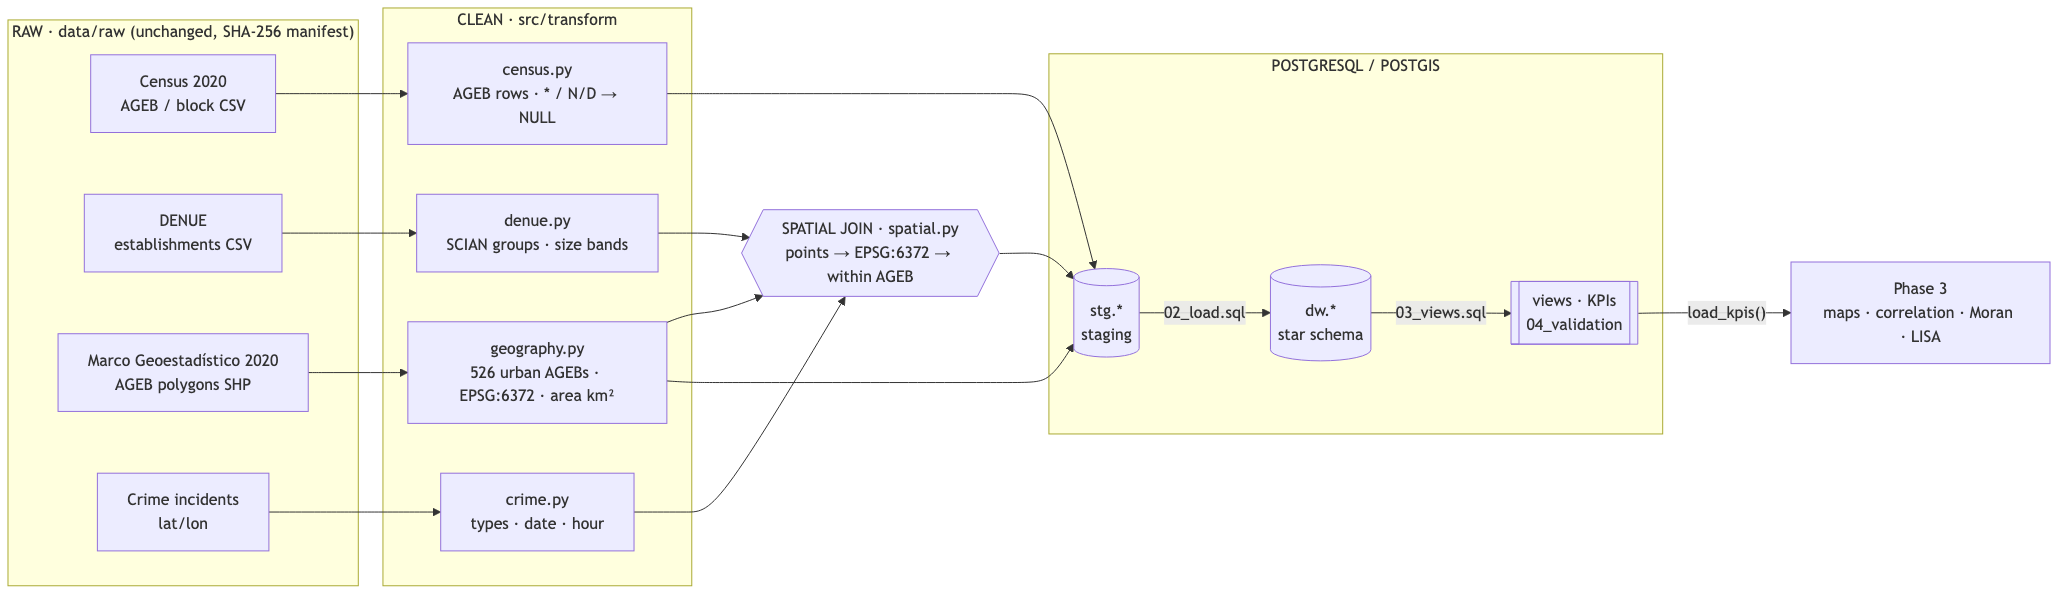
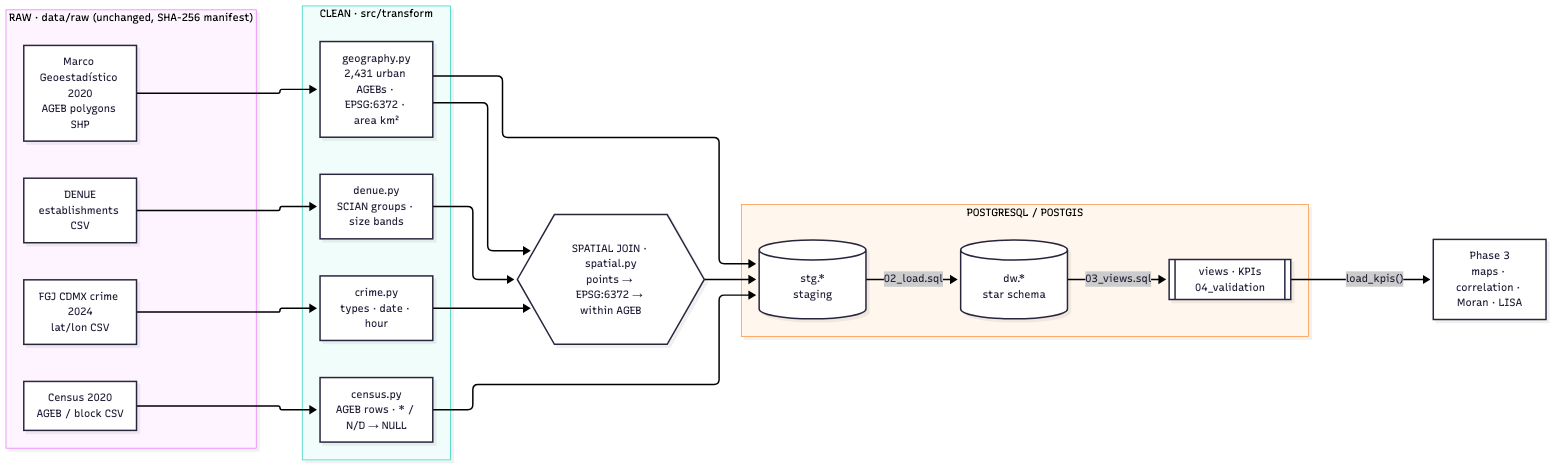
docs(dw): update README, diagrams and report section for CDMX

diff --git a/README.md b/README.md
@@ -1,10 +1,12 @@
-# Mérida Urban Intelligence — Geospatial Data Warehouse
+# Mexico City Urban Intelligence — Geospatial Data Warehouse
 
 > Business Intelligence · Unit 2 Project · Universidad Politécnica de Yucatán
 
-A reproducible geospatial Data Warehouse (PostgreSQL/PostGIS) that integrates demographic (INEGI Census 2020), economic (INEGI DENUE), geographic (INEGI Marco Geoestadístico 2020) and public-safety data for the municipality of Mérida, Yucatán, to calculate territorial KPIs and analyse spatial patterns at the **urban AGEB** level.
+A reproducible geospatial Data Warehouse (PostgreSQL/PostGIS) that integrates demographic (INEGI Census 2020), economic (INEGI DENUE), geographic (INEGI Marco Geoestadístico 2020) and public-safety (FGJ CDMX investigation files) data for Mexico City (CDMX, 16 alcaldías), to calculate territorial KPIs and analyse spatial patterns at the **urban AGEB** level.
 
-**Team:** Jose Pech · Julio de Aquino · Nora Horta · Lorena Pérez · Valeria Hernández
+**Team:** Jose Pech · Julio de Aquino · Nora Horta · Lorena Pérez · Valeria Hernández · Gustavo Fuentes
+
+> **Scope change (5 Oct 2026).** The project started with Mérida, Yucatán. The only public crime data for Mérida (SESNSP) is aggregated by municipality, and the instructor required real georeferenced incidents (no simulated data); with municipal crime data the spatial analysis would have to move to the state level. Following the instructor's suggestion we moved the study area to Mexico City, where the Attorney General's Office (FGJ) publishes geolocated investigation files. The Mérida assessment is kept as Phase 1 evidence (see §3 and §10). The repository name is unchanged.
 
 > 🚧 Sections marked _TODO (owner)_ are filled in as each phase is completed. Team workflow: [`CONTRIBUTING.md`](CONTRIBUTING.md) and [`docs/team/TEAM_PLAN.md`](docs/team/TEAM_PLAN.md).
 
@@ -14,7 +16,7 @@ A reproducible geospatial Data Warehouse (PostgreSQL/PostGIS) that integrates de
 
 The project makes it possible to:
 
-1. calculate demographic, economic and public-safety KPIs for every urban AGEB of Mérida;
+1. calculate demographic, economic and public-safety KPIs for every urban AGEB of Mexico City;
 2. compare areas within the city;
 3. test whether demographic, economic and public-safety patterns are spatially associated (correlation, Global/Local Moran's I, bivariate Moran's I).
 
@@ -23,9 +25,9 @@ The project makes it possible to:
 | Layer | Source | Original grain | Key variables | Owner |
 |---|---|---|---|---|
 | Demographic | INEGI Censo de Población y Vivienda 2020 — results by AGEB and urban block | Urban block / AGEB, with locality and municipality total rows | `POBTOT`, `POB0_14`, `POB15_64`, `POB65_MAS`, `P_12YMAS`, `PEA`, `VIVTOT`, ... | Julio |
-| Economic | INEGI DENUE (Yucatán) | One establishment (point, lat/lon) | `id`, `codigo_act` (SCIAN), `per_ocu`, `latitud`, `longitud`, `fecha_alta` | Nora |
-| Geographic | INEGI Marco Geoestadístico 2020 (`31a.shp`, urban AGEB) | One polygon per AGEB | `CVEGEO`, `CVE_LOC`, `CVE_AGEB`, geometry (EPSG:6372) | Lorena |
-| Public safety | _TODO (Valeria)_ | One incident (point) | lat/lon, crime type, date/time | Valeria |
+| Economic | INEGI DENUE (Ciudad de México) | One establishment (point, lat/lon) | `id`, `codigo_act` (SCIAN), `per_ocu`, `latitud`, `longitud`, `fecha_alta` | Nora |
+| Geographic | INEGI Marco Geoestadístico 2020 (`09a.shp`, urban AGEB) | One polygon per AGEB | `CVEGEO`, `CVE_LOC`, `CVE_AGEB`, geometry (EPSG:6372) | Lorena |
+| Public safety | FGJ CDMX — Carpetas de investigación 2024 (datos.cdmx.gob.mx, CC-BY-4.0; also served by hoyodecrimen.com) | One investigation file (point, lat/lon) | `delito`, `categoria_delito`, `fecha_hecho`, `hora_hecho`, `latitud`, `longitud` | Valeria |
 
 Exact URLs, file hashes and download dates: [`data/raw/manifest.json`](data/raw/manifest.json) (generated by the pipeline).
 
@@ -64,7 +66,7 @@ Source: [`docs/warehouse_model.mmd`](docs/warehouse_model.mmd) (Mermaid) · Data
 
 Every fact keeps one row per original record (AGEB, establishment, incident) with its point geometry, so all KPIs can be recomputed from the warehouse without returning to the raw files. Aggregation happens only in the views.
 
-**Validation** — [`sql/04_validation.sql`](sql/04_validation.sql) runs as the last pipeline step and aborts on failure: row counts `dw` = `stg`, 526 valid AGEBs in EPSG:6372 (259.86 km²), census population = 957,399, every point inside its assigned AGEB, SCIAN groups consistent, KPI view reconciles with the facts and every KPI is computable.
+**Validation** — [`sql/04_validation.sql`](sql/04_validation.sql) runs as the last pipeline step and aborts on failure: row counts `dw` = `stg`, 2,431 valid AGEBs in EPSG:6372 (792.15 km²), census population = 9,138,524, every point inside its assigned AGEB, SCIAN groups consistent, KPI view reconciles with the facts and every KPI is computable.
 
 ## 6. KPIs
 
@@ -87,11 +89,11 @@ Implemented in [`sql/03_views.sql`](sql/03_views.sql). `dw.v_kpi_ageb` has one r
 | Public safety | Incidents by Type and Time | view `dw.v_crime_by_type_time` | incidents by AGEB × type × month × weekday × time band |
 | Public safety | Crime relative to Business Activity | `crimes_per_100_businesses` | `100 × crime_total / businesses_total` |
 
-Ratios with a zero denominator are `NULL`. `low_population` flags the 32 AGEBs with fewer than 100 residents (6 with none); their per-capita rates are unstable (e.g. the historic centre has very few residents and thousands of businesses), so analyses exclude them by default. Supporting view: `dw.v_business_by_sector` (establishments per AGEB × sector).
+Ratios with a zero denominator are `NULL`. `low_population` flags the 55 AGEBs with fewer than 100 residents (17 with none); their per-capita rates are unstable (e.g. AGEBs in the historic centre or with large non-residential uses have few residents and many businesses), so analyses exclude them by default. Supporting view: `dw.v_business_by_sector` (establishments per AGEB × sector).
 
 ## 7. Spatial analysis
 
-_TODO (Julio, Nora, Lorena, Valeria): neighbourhood rule, correlation, Global Moran's I, LISA, bivariate Moran's I, findings._
+_TODO (Julio, Nora, Lorena, Valeria, Gustavo): neighbourhood rule, correlation, Global Moran's I, LISA, bivariate Moran's I, findings._
 
 ## 8. Reproducing the project
 
@@ -136,4 +138,4 @@ merida-urban-intelligence/
 
 ## 10. Assumptions, data-quality issues and cautions
 
-_TODO (all): temporal mismatch between sources (Census 2020, DENUE 2026, crime period), INEGI confidentiality suppression, points outside urban AGEBs, small-population AGEBs, MAUP, spatial association ≠ causation._
+_TODO (all): temporal mismatch between sources (Census 2020, DENUE 2026, crime 2024), INEGI confidentiality suppression, points outside urban AGEBs, small-population AGEBs, MAUP, spatial association ≠ causation._

diff --git a/report/sections/3_dw_architecture.md b/report/sections/3_dw_architecture.md
@@ -16,7 +16,7 @@ The warehouse is a star schema with three fact tables that share conformed dimen
 | `fact_business` | one DENUE establishment | geography, economic activity (SCIAN), business size, date, source |
 | `fact_crime_incident` | one crime incident | geography, crime type, date, hour, source |
 
-`dim_geography` is the dimension that integrates the three sources: it holds the 526 urban AGEB polygons of the municipality of Mérida, their `CVEGEO` identifier and their area in km². The census joins through the identifier; establishments and incidents join through their location.
+`dim_geography` is the dimension that integrates the three sources: it holds the 2,431 urban AGEB polygons of Mexico City, their `CVEGEO` identifier and their area in km². The census joins through the identifier; establishments and incidents join through their location.
 
 Three design decisions shape the model:
 
@@ -28,11 +28,11 @@ Three design decisions shape the model:
 
 The views in `sql/03_views.sql` turn the facts into the required indicators: `v_kpi_ageb` has one row per AGEB with the 13 territorial KPIs and the polygon, `v_crime_by_type_time` provides the distribution of incidents by type, month, weekday and time band, and `v_business_by_sector` supports the dominant-activity indicator. Phase 3 notebooks read only from these views.
 
-The validation script checks that every warehouse table has the same number of rows as its staging source, that the 526 polygons are valid and add up to 259.86 km², that the census population equals INEGI's figure (957,399), that every point lies inside its assigned AGEB, and that the KPI view reconciles with the fact tables.
+The validation script checks that every warehouse table has the same number of rows as its staging source, that the 2,431 polygons are valid and add up to 792.15 km², that the census population equals INEGI's figure for those AGEBs (9,138,524), that every point lies inside its assigned AGEB, and that the KPI view reconciles with the fact tables.
 
 | Table | Rows |
 |---|---|
-| `dim_geography` | 526 |
-| `fact_census_ageb` | 526 |
-| `fact_business` | 56,667 |
+| `dim_geography` | 2,431 |
+| `fact_census_ageb` | 2,431 |
+| `fact_business` | ≈ 461,231 |
 | `fact_crime_incident` | _TBD_ |

diff --git a/docs/data_dictionary.md b/docs/data_dictionary.md
@@ -52,7 +52,7 @@ _TODO_
 
 ## KPI views (`sql/03_views.sql`) — _owner: Jose_
 
-**dw.v_kpi_ageb** — one row per urban AGEB (526). Formulas: [README §6](../README.md#6-kpis).
+**dw.v_kpi_ageb** — one row per urban AGEB (2,431). Formulas: [README §6](../README.md#6-kpis).
 
 | Column | Type | Unit |
 |---|---|---|
